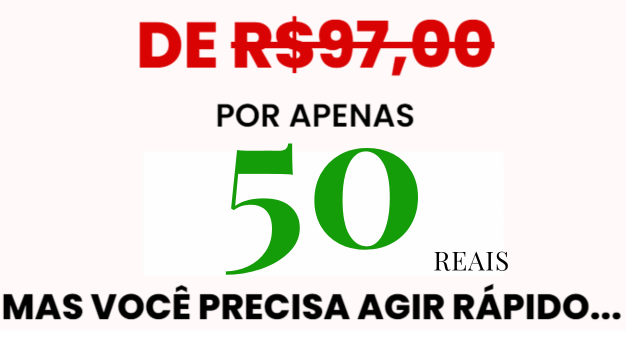
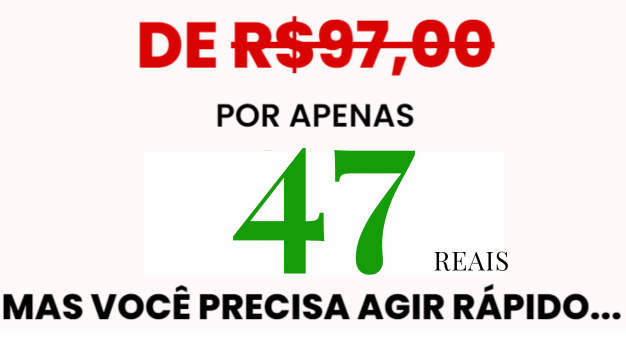
Add files via upload

Changed region(s): [[0.3642, 0.4142, 0.6677, 0.8284]]

diff --git a/index.html b/index.html
@@ -637,7 +637,7 @@ var pysOptions = {"staticEvents":{"facebook":{"init_event":[{"delay":0,"type":"s
                                 <div class="elementor-widget-container"> 
                                     <p><strong>A proposta é simples e clara…</strong></p> 
                                     <p>O Curso mais eficaz e completo que você já viu. E por um valor especial que cabe no seu bolso.</p> 
-                                    <p><strong>HOJE VOCÊ ESTÁ TENDO A CHANCE DE LEVAR TUDO ISSO POR APENAS R$ 50 Reais</strong></p> 
+                                    <p><strong>HOJE VOCÊ ESTÁ TENDO A CHANCE DE LEVAR TUDO ISSO POR APENAS R$ 47</strong></p> 
                                     <p>Sem pegadinhas, pagamento único e acesso vitalício.</p> 
                                 </div>                                 
                             </div>                             
@@ -660,7 +660,7 @@ var pysOptions = {"staticEvents":{"facebook":{"init_event":[{"delay":0,"type":"s
                             <div class="elementor-element elementor-element-3cea089b elementor-widget elementor-widget-heading" data-id="3cea089b" data-element_type="widget" data-widget_type="heading.default"> 
                                 <div class="elementor-widget-container"> 
                                     <h2 class="elementor-heading-title elementor-size-default">Garanta tudo isso
-por apenas R$ 50 enquanto é tempo.</h2> 
+por apenas R$ 47 enquanto é tempo.</h2> 
                                 </div>                                 
                             </div>                             
                             <div class="elementor-element elementor-element-3899038d elementor-widget elementor-widget-image" data-id="3899038d" data-element_type="widget" data-widget_type="image.default"> 
@@ -725,12 +725,12 @@ por apenas R$ 50 enquanto é tempo.</h2>
                             </div>                             
                             <div class="elementor-element elementor-element-37cac13 elementor-widget elementor-widget-heading" data-id="37cac13" data-element_type="widget" data-widget_type="heading.default"> 
                                 <div class="elementor-widget-container"> 
-                                    <h2 class="elementor-heading-title elementor-size-default">Por que somente R$ 50?</h2> 
+                                    <h2 class="elementor-heading-title elementor-size-default">Por que somente R$ 47?</h2> 
                                 </div>                                 
                             </div>                             
                             <div class="elementor-element elementor-element-199864b9 elementor-widget elementor-widget-text-editor" data-id="199864b9" data-element_type="widget" data-widget_type="text-editor.default"> 
                                 <div class="elementor-widget-container"> 
-                                    <p>Se você prestar atenção, o valor de R$ 50 Reais não parece ser um valor aleatório para cobrar em um produto (e de fato não é).</p> 
+                                    <p>Se você prestar atenção, o valor de R$ 47 Reais não parece ser um valor aleatório para cobrar em um produto (e de fato não é).</p> 
                                     <p><strong>Razão número 01:</strong> O valor não se torna um obstáculo para ninguém.</p> 
                                     <p><strong>Razão número 02:</strong> Proteção contra curiosos.</p> 
                                     <p>Mesmo que o investimento seja baixo, o simples fato de cobrar já afasta curiosos em busca de “soluções gratuitas” na internet.</p> 
